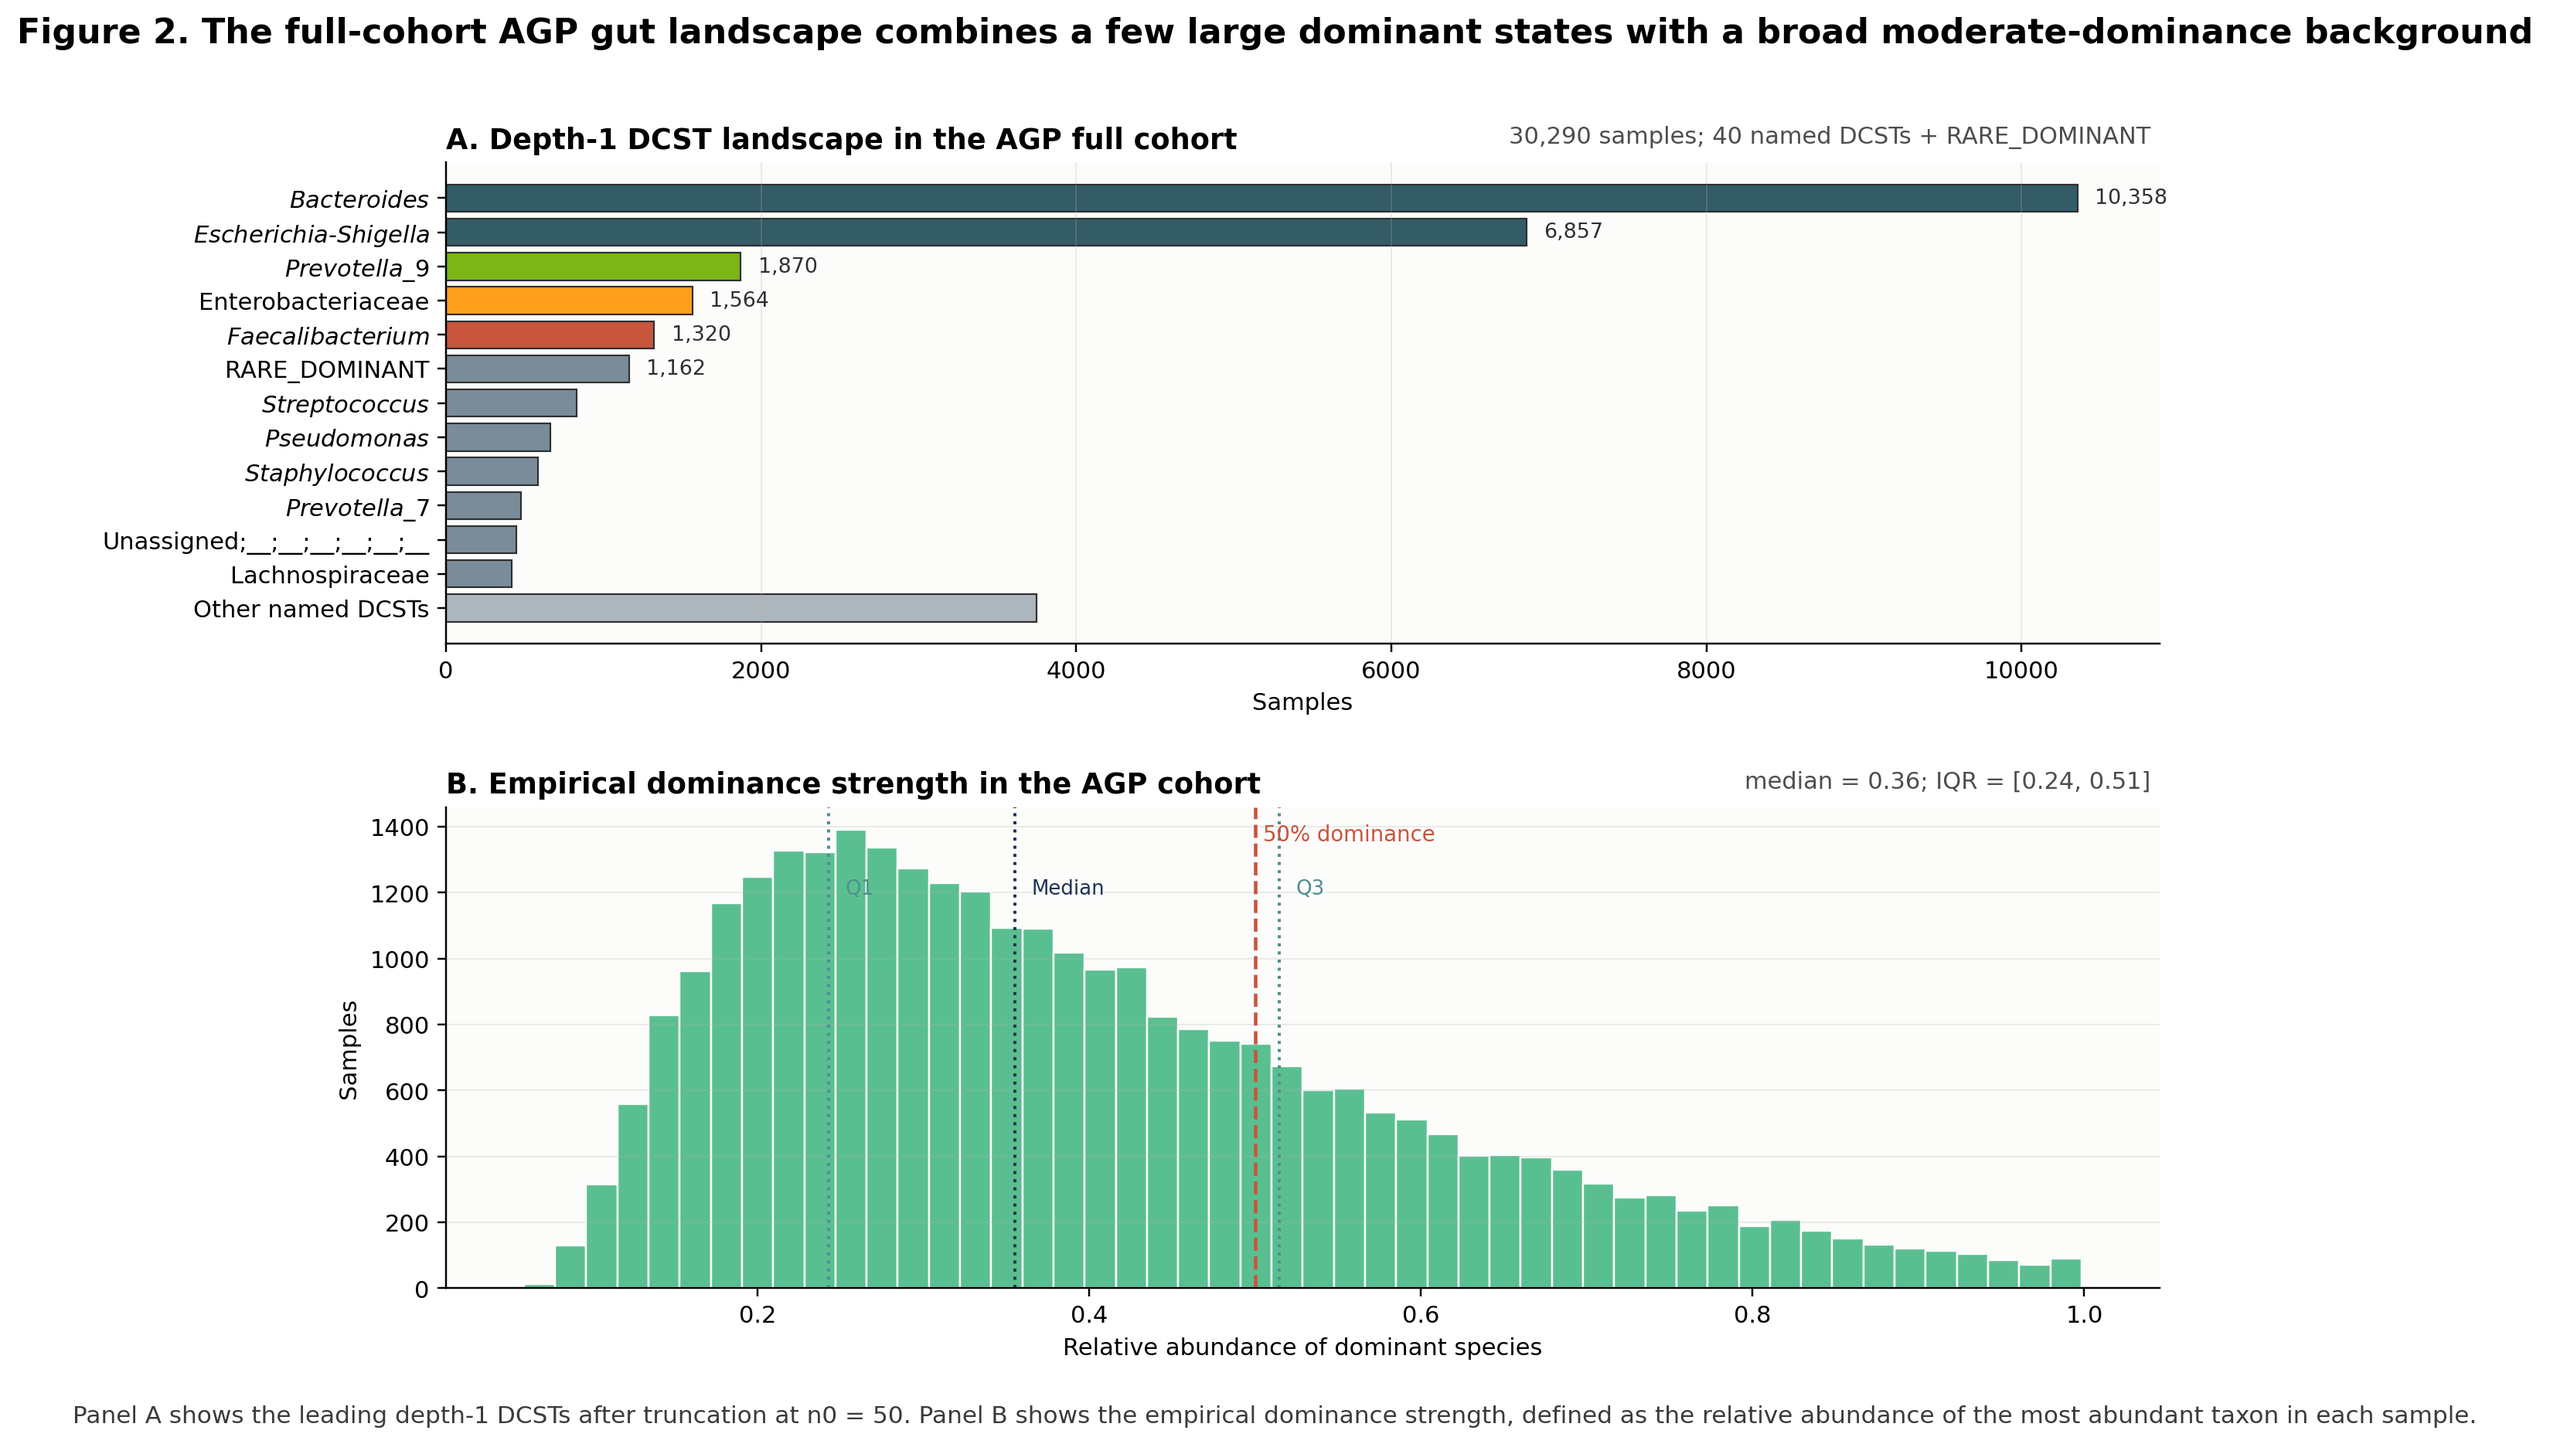
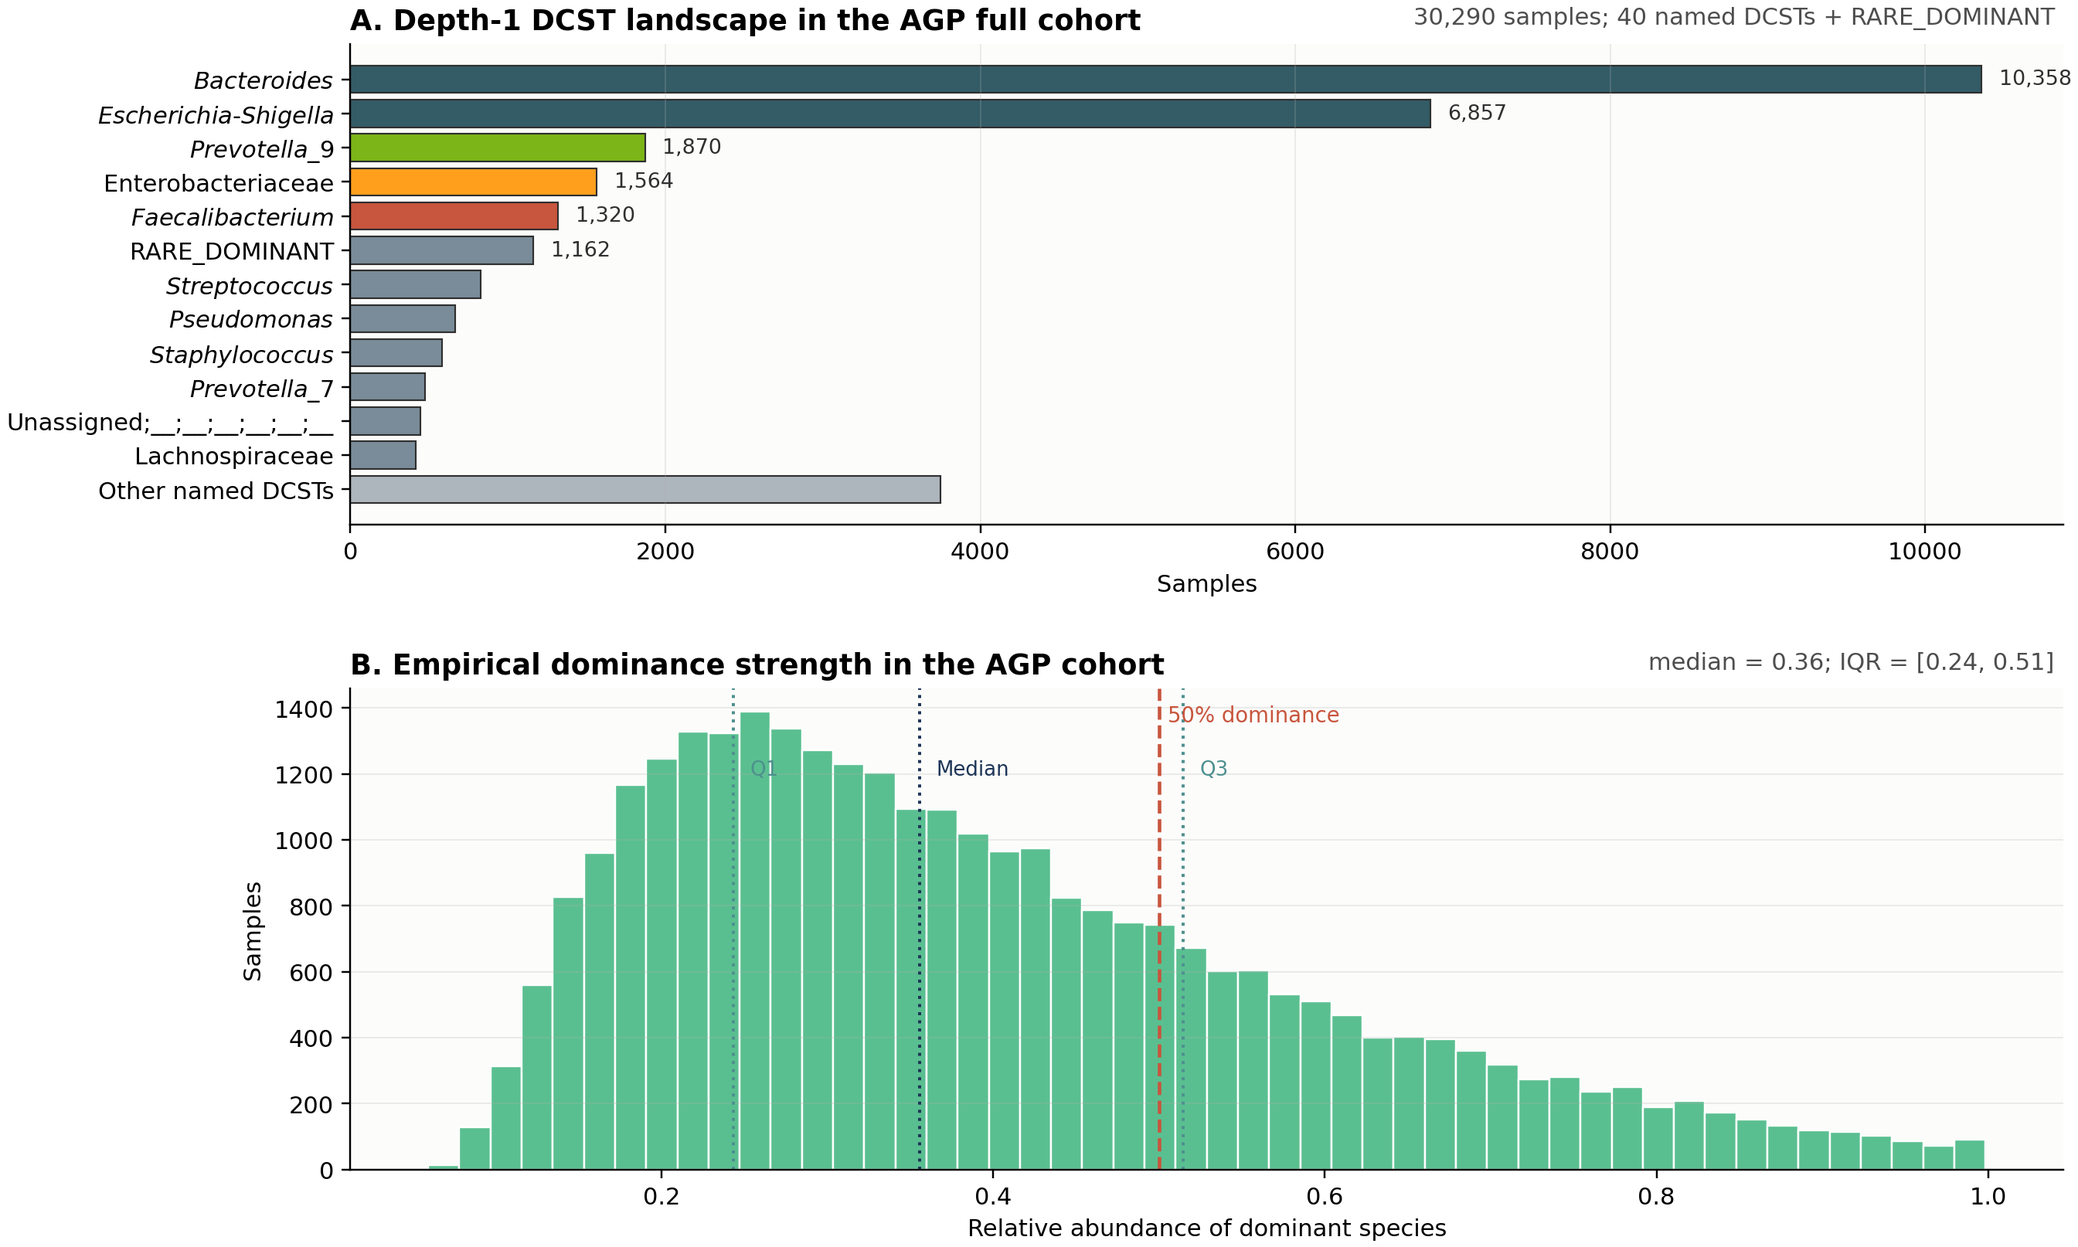
Clean up gut DCST Figure 1 and Figure 2 presentation

diff --git a/papers/gut-dcst/scripts/build_dcst_concept_figure.py b/papers/gut-dcst/scripts/build_dcst_concept_figure.py
@@ -52,8 +52,8 @@ def main():
     raw = np.array([420, 280, 180, 120])
     colors = ["#335c67", "#7cb518", "#ff9f1c", "#c8553d"]
 
-    fig = plt.figure(figsize=(13, 8))
-    gs = fig.add_gridspec(2, 2, height_ratios=[1, 1.08], hspace=0.42, wspace=0.28)
+    fig = plt.figure(figsize=(13, 6.7))
+    gs = fig.add_gridspec(2, 2, height_ratios=[1, 0.95], hspace=0.42, wspace=0.28)
 
     ax1 = fig.add_subplot(gs[0, 0])
     draw_bars(
@@ -71,7 +71,7 @@ def main():
         raw,
         colors,
         "Within-sample dominance order",
-        "Only the rank order matters: Taxon A > Taxon B > Taxon C > Taxon D",
+        "Only the rank order matters:\nTaxon A > Taxon B > Taxon C > Taxon D",
         annotate=[(0, "1st"), (1, "2nd"), (2, "3rd"), (3, "4th")],
     )
     add_panel_label(ax2, "B")
@@ -83,64 +83,59 @@ def main():
     box_ec = "#b08968"
     text_color = "#2f2f2f"
 
-    left = Rectangle((0.03, 0.52), 0.40, 0.26, facecolor=box_fc, edgecolor=box_ec, linewidth=1.5)
-    right = Rectangle((0.56, 0.52), 0.37, 0.26, facecolor="#edf6f9", edgecolor="#4d908e", linewidth=1.5)
+    left = Rectangle((0.04, 0.46), 0.40, 0.30, facecolor=box_fc, edgecolor=box_ec, linewidth=1.5)
+    right = Rectangle((0.54, 0.46), 0.40, 0.30, facecolor="#edf6f9", edgecolor="#4d908e", linewidth=1.5)
     ax3.add_patch(left)
     ax3.add_patch(right)
-    ax3.text(0.23, 0.65, "Largest coordinate\nTaxon A", ha="center", va="center", fontsize=12, color=text_color)
-    ax3.text(0.745, 0.65, "Depth-1 DCST\nA", ha="center", va="center", fontsize=13, weight="bold", color="#1d3557")
-    arrow = FancyArrowPatch((0.43, 0.65), (0.56, 0.65), arrowstyle="simple", mutation_scale=18, color="#6c757d")
+    ax3.text(0.24, 0.61, "Largest coordinate\nTaxon A", ha="center", va="center", fontsize=12, color=text_color)
+    ax3.text(0.74, 0.61, "Depth-1 DCST A", ha="center", va="center", fontsize=12.6, weight="bold", color="#1d3557")
+    arrow = FancyArrowPatch((0.44, 0.61), (0.54, 0.61), arrowstyle="simple", mutation_scale=18, color="#6c757d")
     ax3.add_patch(arrow)
-    ax3.text(
-        0.5,
-        0.25,
-        "Depth 1 keeps only the top-ranked taxon.\nThe label is read directly from the sample, not from a fitted cluster.",
-        ha="center",
-        va="center",
-        fontsize=10.5,
-        color=text_color,
-    )
 
     ax4 = fig.add_subplot(gs[1, 1])
     ax4.axis("off")
     add_panel_label(ax4, "D")
-    box1 = Rectangle((0.03, 0.57), 0.25, 0.22, facecolor=box_fc, edgecolor=box_ec, linewidth=1.5)
-    box2 = Rectangle((0.32, 0.57), 0.25, 0.22, facecolor="#e9f5db", edgecolor="#6a994e", linewidth=1.5)
-    box3 = Rectangle((0.62, 0.57), 0.32, 0.22, facecolor="#edf6f9", edgecolor="#4d908e", linewidth=1.5)
+    box1 = Rectangle((0.02, 0.46), 0.22, 0.26, facecolor=box_fc, edgecolor=box_ec, linewidth=1.5)
+    box2 = Rectangle((0.34, 0.46), 0.22, 0.26, facecolor="#e9f5db", edgecolor="#6a994e", linewidth=1.5)
+    box3 = Rectangle((0.65, 0.46), 0.29, 0.26, facecolor="#edf6f9", edgecolor="#4d908e", linewidth=1.5)
     for patch in (box1, box2, box3):
         ax4.add_patch(patch)
-    ax4.text(0.155, 0.68, "Top rank\nTaxon A", ha="center", va="center", fontsize=11.5, color=text_color)
-    ax4.text(0.445, 0.68, "Second rank\nTaxon B", ha="center", va="center", fontsize=11.5, color=text_color)
-    ax4.text(0.78, 0.68, "Depth-2 DCST\nA__B", ha="center", va="center", fontsize=13, weight="bold", color="#1d3557")
-    ax4.add_patch(FancyArrowPatch((0.28, 0.68), (0.32, 0.68), arrowstyle="-|>", mutation_scale=16, color="#6c757d"))
-    ax4.add_patch(FancyArrowPatch((0.57, 0.68), (0.62, 0.68), arrowstyle="-|>", mutation_scale=16, color="#6c757d"))
     ax4.text(
-        0.48,
-        0.27,
-        "Depth 2 records the ordered dominant pair.\nIn the rare policy used here, low-frequency patterns are grouped into RARE_DOMINANT\nrather than absorbed into larger named states.",
+        0.13,
+        0.59,
+        "Top rank\nTaxon A",
         ha="center",
         va="center",
-        fontsize=10.5,
+        fontsize=10.8,
+        linespacing=1.05,
         color=text_color,
     )
-
-    fig.suptitle(
-        "Figure 1. Conceptual construction of dominant-community state types (DCSTs)",
-        fontsize=15,
-        weight="bold",
-        y=0.98,
-    )
-    fig.text(
-        0.5,
-        0.02,
-        "The key point is that the label is determined by within-sample dominance order, yielding a deterministic and hierarchical alternative to clustering-based community typing.",
+    ax4.text(
+        0.45,
+        0.59,
+        "Second rank\nTaxon B",
         ha="center",
-        va="bottom",
-        fontsize=10.5,
-        color="#3b3b3b",
+        va="center",
+        fontsize=10.8,
+        linespacing=1.05,
+        color=text_color,
     )
+    ax4.text(
+        0.795,
+        0.59,
+        "Depth-2\nDCST A__B",
+        ha="center",
+        va="center",
+        fontsize=11.2,
+        linespacing=1.0,
+        weight="bold",
+        color="#1d3557",
+    )
+    ax4.add_patch(FancyArrowPatch((0.24, 0.59), (0.34, 0.59), arrowstyle="-|>", mutation_scale=16, color="#6c757d"))
+    ax4.add_patch(FancyArrowPatch((0.56, 0.59), (0.65, 0.59), arrowstyle="-|>", mutation_scale=16, color="#6c757d"))
+
     OUT.parent.mkdir(parents=True, exist_ok=True)
-    fig.savefig(OUT, dpi=220, bbox_inches="tight")
+    fig.savefig(OUT, dpi=220, bbox_inches="tight", pad_inches=0.04)
     plt.close(fig)
 
 

diff --git a/papers/gut-dcst/manuscript/gut_application_paper.tex b/papers/gut-dcst/manuscript/gut_application_paper.tex
@@ -265,15 +265,20 @@ threshold for a named dominant type are grouped into
 
 \begin{figure}
 \centering
-\includegraphics[width=0.92\linewidth,height=\textheight,keepaspectratio,alt={Conceptual schematic of the DCST construction. A sample abundance profile induces a within-sample taxon ranking, which yields a depth-1 state from the dominant taxon and a depth-2 state from the ordered dominant pair. Under the rare low-frequency policy used in this paper, dominant patterns below the prevalence threshold are grouped into RARE\_DOMINANT; the software also supports an absorb policy that merges such samples into larger named states.}]{../assets/figures/FIGURE_1_dcst_conceptual_schematic.png}
-\caption{Conceptual schematic of the DCST construction. A sample
-abundance profile induces a within-sample taxon ranking, which yields a
-depth-1 state from the dominant taxon and a depth-2 state from the
-ordered dominant pair. Under the \texttt{rare} low-frequency policy used
-in this paper, dominant patterns below the prevalence threshold are
-grouped into \texttt{RARE\_DOMINANT}; the software also supports an
+\includegraphics[width=0.92\linewidth,height=\textheight,keepaspectratio,alt={Conceptual schematic of the DCST construction. Panel A shows an example sample abundance profile. Panel B shows the induced within-sample dominance ranking. Panel C shows the depth-1 assignment, which keeps only the top-ranked taxon and reads the label directly from the sample. Panel D shows the depth-2 assignment, which records the ordered dominant pair. Under the rare low-frequency policy used in this paper, dominant patterns below the prevalence threshold are grouped into RARE\_DOMINANT; the software also supports an absorb policy that merges such samples into larger named states.}]{../assets/figures/FIGURE_1_dcst_conceptual_schematic.png}
+\caption{Conceptual schematic of the DCST construction. Panel A shows an
+example sample abundance profile, and panel B shows the corresponding
+within-sample dominance order. Panel C illustrates the depth-1
+assignment, which keeps only the top-ranked taxon and reads the label
+directly from the sample rather than from a fitted cluster. Panel D
+illustrates the depth-2 assignment, which records the ordered dominant
+pair. Under the \texttt{rare} low-frequency policy used in this paper,
+dominant patterns below the prevalence threshold are grouped into
+\texttt{RARE\_DOMINANT}; the software also supports an
 \texttt{absorb} policy that merges such samples into larger named
-states.}
+states. The key point is that the label is determined by within-sample
+dominance order, yielding a deterministic and hierarchical alternative
+to clustering-based community typing.}
 \end{figure}
 
 \section{Materials and Methods}\label{methods}
@@ -415,11 +420,13 @@ Rank & DCST & n & Share (\%) & Cumulative (\%) \\
 
 \begin{figure}
 \centering
-\includegraphics[width=0.92\linewidth,height=\textheight,keepaspectratio,alt={Full-cohort AGP landscape. Panel A shows the leading depth-1 DCSTs after truncation at n0 = 50, while Panel B shows the empirical dominance strength, defined as the relative abundance of the dominant species in each sample.}]{../assets/figures/FIGURE_2_full_cohort_landscape.png}
+\includegraphics[width=0.92\linewidth,height=\textheight,keepaspectratio,alt={Full-cohort AGP landscape. Panel A shows the leading depth-1 DCSTs in the 30,290-sample AGP cohort after truncation at n0 = 50, with the remaining named states grouped as other named DCSTs. Panel B shows the distribution of empirical dominance strength, defined as the relative abundance of the dominant species in each sample, with the median and interquartile range annotated.}]{../assets/figures/FIGURE_2_full_cohort_landscape.png}
 \caption{Full-cohort AGP landscape. Panel A shows the leading depth-1
-DCSTs after truncation at n0 = 50, while Panel B shows the empirical
-dominance strength, defined as the relative abundance of the dominant
-species in each sample.}
+DCSTs in the 30,290-sample AGP cohort after truncation at \(n_0 = 50\),
+with the remaining named states grouped as other named DCSTs. Panel B
+shows the distribution of empirical dominance strength, defined as the
+relative abundance of the dominant species in each sample, with the
+median and interquartile range annotated.}
 \end{figure}
 
 \begin{figure}

diff --git a/papers/gut-dcst/scripts/build_full_cohort_landscape_figure.py b/papers/gut-dcst/scripts/build_full_cohort_landscape_figure.py
@@ -148,23 +148,8 @@ def build_figure(labels: list[str], size_counts: list[int], dom_values: np.ndarr
         color="#4d4d4d",
     )
 
-    fig.suptitle(
-        "Figure 2. The full-cohort AGP gut landscape combines a few large dominant states with a broad moderate-dominance background",
-        fontsize=14.5,
-        fontweight="bold",
-        y=0.98,
-    )
-    fig.text(
-        0.5,
-        0.015,
-        "Panel A shows the leading depth-1 DCSTs after truncation at n0 = 50. Panel B shows the empirical dominance strength, defined as the relative abundance of the most abundant taxon in each sample.",
-        ha="center",
-        va="bottom",
-        fontsize=10.2,
-        color="#3b3b3b",
-    )
     OUT_FIG.parent.mkdir(parents=True, exist_ok=True)
-    fig.savefig(OUT_FIG, dpi=220, bbox_inches="tight")
+    fig.savefig(OUT_FIG, dpi=220, bbox_inches="tight", pad_inches=0.04)
     plt.close(fig)
 
 
